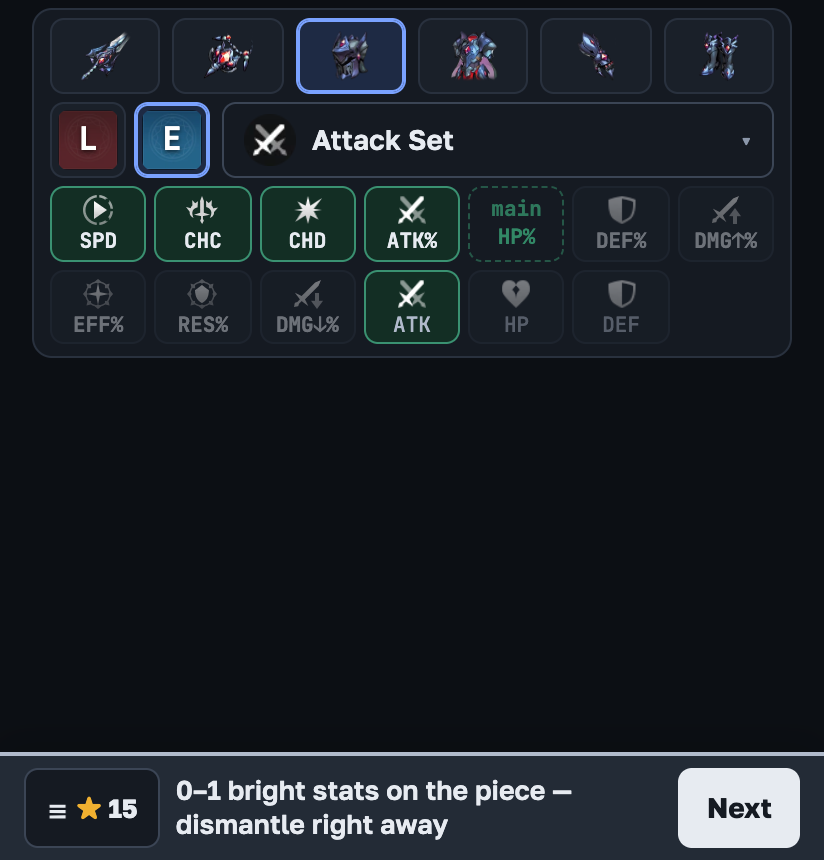
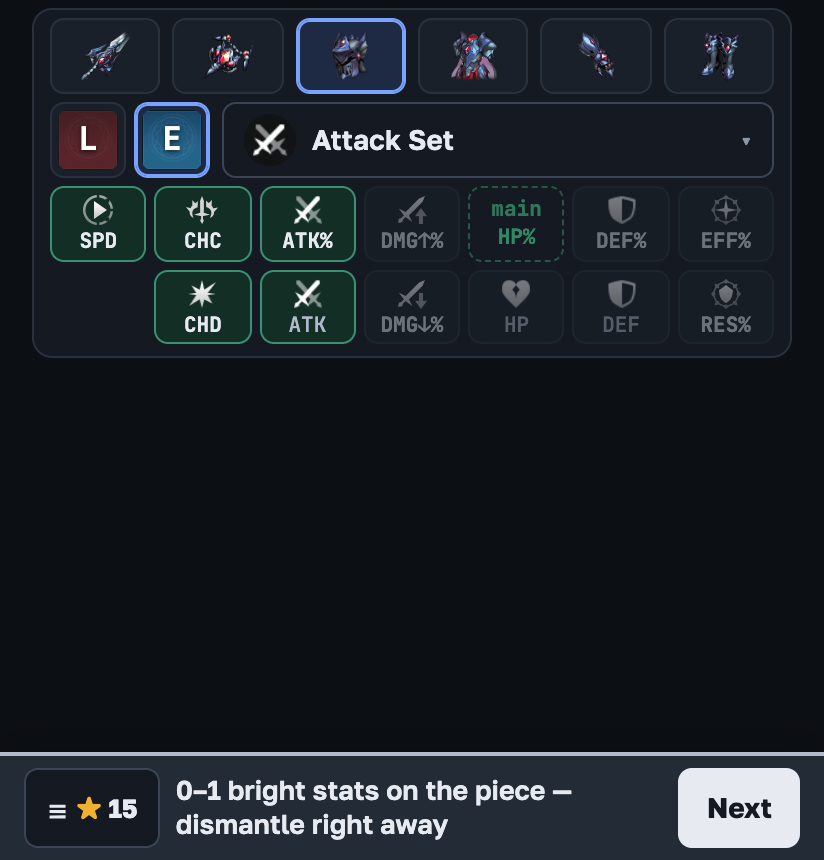
Сетка статов парами по параметру: атака слева, защита справа
Статы, которые меняют один параметр, стоят рядом, один над другим:
CHC над CHD, ATK% над ATK, DMG UP% над DMG RED%, HP% над HP, DEF% над DEF,
EFF% над RES%. SPD — первым, под ним пусто.

- Сетка main аксессуара — на тех же местах: PEN% под ATK%, CDMG RED% рядом
  с DMG RED%. MAIN_GRID теперь выводится из раскладки MAIN_LAYOUT.
- Окно замены сабстата — те же пары по строкам, 4 в ряд. Порядок SUB_LIST
  для логики и текстов не менялся.
- Справка, вики («Начало работы») и скриншоты обновлены.

diff --git a/src/components/eval/StatGrid.tsx b/src/components/eval/StatGrid.tsx
@@ -1,4 +1,4 @@
-import { FLAT, MAIN_GRID, subLabel } from '../../data';
+import { FLAT, MAIN_LAYOUT, subLabel } from '../../data';
 import { useT } from '../../i18n';
 import type { MainOption } from '../../logic/lists';
 import type { Subs } from '../../logic/subs';
@@ -6,8 +6,9 @@ import { StatIcon } from '../Img';
 
 // Сетка сабстатов прямо на форме вместо окна выбора: одно нажатие — стат встаёт в следующую строку с 1 жёлтым,
 // повторное — снимает его.
-// Раскладка 7×2: %-статы над своими flat-версиями (ATK% над ATK, HP% над HP, DEF% над DEF),
-// чтобы «есть ли на предмете %» решалось местом кнопки, а не чтением подписи.
+// Раскладка 7×2 по параметрам: пары стоят одна над другой — CHC над CHD, ATK% над ATK, DMG UP% над DMG RED%,
+// HP% над HP, DEF% над DEF, EFF% над RES%; слева SPD и атака, справа защита. %-статы над своими flat-версиями,
+// чтобы «есть ли на предмете %» решалось местом кнопки, а не чтением подписи. null — пустая клетка.
 // useful — спрос билдов выбранного сета: ярче — нужен, блёклый — не нужен никому.
 // mains — у аксессуара без main: сетка сначала выбирает main (он в игре сверху предмета), потом сабстаты.
 // Flat-статы main не бывают — на их местах PEN% и CDMG RED%, которые бывают только main; остальные на своих местах.
@@ -17,7 +18,11 @@ import { StatIcon } from '../Img';
 // у аксессуара с main EFF клетка EFF% остаётся обычной (main тогда виден в поле main над сеткой).
 // Сабстаты подписаны, как на вещи в игре (subLabel: EFF%, RES%), main — без %: flat RES ботинок сабстатом не бывает,
 // и клетка RES% рядом с ним — другой стат.
-const GRID = ['SPD', 'CHC', 'CHD', 'ATK%', 'HP%', 'DEF%', 'DMG UP%', 'EFF', 'RES', 'DMG RED%', 'ATK', 'HP', 'DEF'];
+const GRID: (string | null)[] = [
+  'SPD', 'CHC', 'ATK%', 'DMG UP%', 'HP%', 'DEF%', 'EFF',
+  null, 'CHD', 'ATK', 'DMG RED%', 'HP', 'DEF', 'RES',
+];
+const gap = (i: number) => <span key={`gap${i}`} className="sg-gap" aria-hidden="true" />;
 // подписи — не длиннее пяти знаков: в разделённом экране клетка ~24 px. CDMG RED% — «CD↓%»: «CDMG↓» обрезалось бы в «DMG↓»
 const SHORT: Record<string, string> = { 'DMG UP%': 'DMG↑%', 'DMG RED%': 'DMG↓%', 'CDMG RED%': 'CD↓%' };
 
@@ -29,7 +34,8 @@ export function StatGrid({ subs, main, blocked, full, useful, mains, onPick, onM
   if (mains) {
     return (
       <div className="statgrid main-mode" role="group" aria-label={t.ui.mainGroup}>
-        {MAIN_GRID.map((k) => {
+        {MAIN_LAYOUT.map((k, i) => {
+          if (k === null) return gap(i);
           const o = mains.find((x) => x.key === k);
           const cls = ['sg', o && (o.want ? 'u1' : 'u0'), o?.rare && 'rare'].filter(Boolean).join(' ');
           return (
@@ -43,7 +49,8 @@ export function StatGrid({ subs, main, blocked, full, useful, mains, onPick, onM
   }
   return (
     <div className="statgrid" role="group" aria-label={t.ui.addSub}>
-      {GRID.map((k) => {
+      {GRID.map((k, i) => {
+        if (k === null) return gap(i);
         if (blocked.has(k) && !(k in subs)) {
           // выбранный main снимается нажатием; фиксированная строка (HP% шлема, flat ATK оружия) — нет
           const chosen = k === main;

diff --git a/src/i18n/ru.ts b/src/i18n/ru.ts
@@ -394,7 +394,7 @@ export const ru = {
       '**Legendary оружие и аксессуар** — найди предмет и отметь main stat. Совсем новый, которого нет в списке, — «нет в списке».',
       '**Epic оружие и аксессуар** (Steel…) — пассивки нет, сразу main stat.',
       '**Main stat** у оружия — кнопки ATK% / DEF% / HP% рядом с грейдом; у аксессуара — первое нажатие в сетке, дальше сетка отмечает сабстаты. Ярче — main, который кому-то нужен. Нажми выбранный ещё раз, чтобы убрать.',
-      '**Сабстаты** — нажми в сетке; ярче — статы, нужные билдам выбранного сета. %-статы стоят над своими flat-версиями. Клетка с пометкой main — такого сабстата на этой вещи не бывает: он уже в main (HP% у шлема и ботинок, flat DEF у брони и перчаток, flat ATK у оружия). Flat EFF и flat RES в main сабстатам EFF% и RES% не мешают — в игре это разные статы. В сетке все 13 сабстатов игры; PEN%, CDMG RED%, flat EFF и flat RES сабстатами не бывают — только main.',
+      '**Сабстаты** — нажми в сетке; ярче — статы, нужные билдам выбранного сета. Статы стоят парами по параметру, один над другим: ATK% над ATK, HP% над HP, DEF% над DEF, CHC над CHD, DMG UP% над DMG RED%, EFF% над RES%. Клетка с пометкой main — такого сабстата на этой вещи не бывает: он уже в main (HP% у шлема и ботинок, flat DEF у брони и перчаток, flat ATK у оружия). Flat EFF и flat RES в main сабстатам EFF% и RES% не мешают — в игре это разные статы. В сетке все 13 сабстатов игры; PEN%, CDMG RED%, flat EFF и flat RES сабстатами не бывают — только main.',
       '**4-й сабстат у Epic** — Epic выпадает с тремя, четвёртый добавляет первый Reforge. Сделал Reforge — отметь его кнопкой «+ 4-й сабстат от Reforge»: он может вытянуть вещь. Какой именно вытянет броню, подскажет «Прокачка».',
       'Нажми на стат в строке, чтобы заменить его (жёлтые сегменты останутся) или убрать. При замене можно выбрать и стат из другой строки: он переедет сюда, а та строка освободится — так удобно вводить следующую вещь поверх прошлой. Убрать можно и повторным нажатием в сетке. Код, справка и настройки — в меню ☰.',
     ],

diff --git a/src/i18n/en.ts b/src/i18n/en.ts
@@ -361,7 +361,7 @@ export const en: Texts = {
       '**Legendary weapon and accessory** — find the item and mark the main stat. Brand new and not listed yet — "not listed".',
       '**Epic weapon and accessory** (Steel…) — no passive, straight to the main stat.',
       '**Main stat** on a weapon — the ATK% / DEF% / HP% buttons next to the grade; on an accessory — the first tap in the grid, after that the grid marks substats. Brighter — a main someone needs. Tap the chosen one again to remove it.',
-      '**Substats** — tap them in the grid; brighter ones are needed by builds with the chosen set. % stats sit above their flat versions. A cell marked main never rolls as a substat on this piece — it is already in the main (HP% on helmets and boots, flat DEF on chest armor and gloves, flat ATK on weapons). A flat EFF or flat RES main doesn\'t block EFF% and RES% substats — in the game they are different stats. The grid has all 13 substats in the game; PEN%, CDMG RED%, flat EFF and flat RES never roll as substats — only as mains.',
+      '**Substats** — tap them in the grid; brighter ones are needed by builds with the chosen set. Stats sit in pairs by parameter, one above the other: ATK% over ATK, HP% over HP, DEF% over DEF, CHC over CHD, DMG UP% over DMG RED%, EFF% over RES%. A cell marked main never rolls as a substat on this piece — it is already in the main (HP% on helmets and boots, flat DEF on chest armor and gloves, flat ATK on weapons). A flat EFF or flat RES main doesn\'t block EFF% and RES% substats — in the game they are different stats. The grid has all 13 substats in the game; PEN%, CDMG RED%, flat EFF and flat RES never roll as substats — only as mains.',
       '**4th substat on an Epic** — Epics drop with three; the first Reforge adds a fourth. Did a Reforge — mark it with "+ 4th substat from Reforge": it can pull the piece up. For armor, "Upgrading" tells which one would.',
       'Tap a stat in its row to replace it (yellow segments stay) or remove it. When replacing, you can also pick a stat from another row: it moves here and that row is freed — handy for entering the next piece over the last one. Tapping it again in the grid removes it too. Code, help and settings are in the ☰ menu.',
     ],

diff --git a/src/components/eval/SubPicker.tsx b/src/components/eval/SubPicker.tsx
@@ -8,6 +8,9 @@ import { StatIcon } from '../Img';
 // При замене можно взять и стат из другой строки: он переедет сюда, а та строка освободится (appState, replaceSub);
 // у такого стата — номер строки, где он стоит сейчас.
 // blocked — сабстаты, которых на предмете не бывает из-за main (см. logic/mains).
+// Раскладка 4 в ряд парами по параметрам, как в сетке на форме: CHC и CHD, ATK% и ATK, DMG UP% и DMG RED%,
+// HP% и HP, DEF% и DEF, EFF% и RES%. null — пустая клетка; сабстат, которого здесь нет, встаёт в конец.
+const LAYOUT: (string | null)[] = ['SPD', null, 'CHC', 'CHD', 'ATK%', 'ATK', 'DMG UP%', 'DMG RED%', 'HP%', 'HP', 'DEF%', 'DEF', 'EFF', 'RES'];
 export function SubPicker({ ctx, subs, blocked, editing, onPick, onRemove }: {
   ctx: Ctx; subs: Subs; blocked: Set<string>; editing: string | null; onPick: (key: string) => void; onRemove?: () => void;
 }) {
@@ -21,7 +24,8 @@ export function SubPicker({ ctx, subs, blocked, editing, onPick, onRemove }: {
   return (
     <>
       <div className="subgrid">
-        {SUB_LIST.map((k) => {
+        {[...LAYOUT.filter((k) => k === null || SUB[k]), ...SUB_LIST.filter((k) => !LAYOUT.includes(k))].map((k, i) => {
+          if (k === null) return <span key={`gap${i}`} aria-hidden="true" />;
           const row = rowOf(k);
           const taken = (blocked.has(k) && k !== editing) || (row > 0 && editing === null);
           const move = row > 0 && editing !== null;

diff --git a/src/data/index.ts b/src/data/index.ts
@@ -36,9 +36,14 @@ export const FLAT = new Set(['ATK', 'DEF', 'HP']);
 // так они лежат в коде предмета и в сохранённых вещах. Main (MainButtons, main в сетке и в цепочке) — без %.
 const SUB_LABEL: Record<string, string> = { EFF: 'EFF%', RES: 'RES%' };
 export const subLabel = (k: string): string => SUB_LABEL[k] ?? k;
-// main аксессуара в сетке (StatGrid): те же места, что у сабстатов, а на местах flat-статов — PEN% и CDMG RED%,
-// которые бывают только main. Новый main в данных без места здесь — красная проверка (scripts/check-data.mjs)
-export const MAIN_GRID = ['SPD', 'CHC', 'CHD', 'ATK%', 'HP%', 'DEF%', 'DMG UP%', 'EFF', 'RES', 'DMG RED%', 'PEN%', 'CDMG RED%'];
+// main аксессуара в сетке (StatGrid), по строкам 7×2; null — пустая клетка. Те же места, что у сабстатов, а на местах
+// flat ATK и flat HP — PEN% (к атаке) и CDMG RED% (рядом с DMG RED%), которые бывают только main.
+// Новый main в данных без места здесь — красная проверка (scripts/check-data.mjs)
+export const MAIN_LAYOUT: (string | null)[] = [
+  'SPD', 'CHC', 'ATK%', 'DMG UP%', 'HP%', 'DEF%', 'EFF',
+  null, 'CHD', 'PEN%', 'DMG RED%', 'CDMG RED%', null, 'RES',
+];
+export const MAIN_GRID = MAIN_LAYOUT.filter((k): k is string => k !== null);
 
 export function createIndex(D: Dataset) {
   const SUB = Object.fromEntries(D.substats.map((s) => [s.key, s]));

diff --git a/src/styles/eval.css b/src/styles/eval.css
@@ -168,7 +168,7 @@ html.narrow .actions .btn.primary { display: none; } /* на телефоне «
 html.narrow body.has-vbar .toast { bottom: calc(80px + env(safe-area-inset-bottom, 0px)); }
 @media (max-height: 560px) { html.narrow body.has-vbar .toast { bottom: calc(62px + env(safe-area-inset-bottom, 0px)); } }
 
-/* сетка сабстатов на форме: 7×2, %-статы над своими flat-версиями; ярче — нужны билдам выбранного сета */
+/* сетка сабстатов на форме: 7×2, пары по параметру одна над другой (%-статы над flat); ярче — нужны билдам выбранного сета */
 .formrow .pick.main { flex: 0 0 auto; max-width: 40%; }
 .subzone { display: grid; min-height: 84px; }
 .statgrid { display: grid; grid-template-columns: repeat(7, minmax(0, 1fr)); gap: 4px; align-content: start; }

diff --git a/wiki/Начало-работы.md b/wiki/Начало-работы.md
@@ -29,8 +29,9 @@ Outerplane Gear Check подсказывает, что оставить, а чт
    - **main stat** у оружия — кнопки ATK% / DEF% / HP% рядом с грейдом; у аксессуара — первое нажатие в сетке: пока
      main не выбран, сетка выбирает его (в игре он сверху вещи), потом — сабстаты. Бледный — такой main никому не нужен;
    - **сабстаты** — нажми их в сетке по порядку, как в игре; жёлтые сегменты — кнопками 1–4 в строке стата.
-     ATK%, HP% и DEF% стоят над своими flat-версиями, чтобы не перепутать. В сетке все 13 сабстатов игры: EFF% и RES%
-     на вещи тоже со знаком %, а flat EFF, flat RES, PEN% и CDMG RED% бывают только main;
+     Статы стоят парами по параметру, один над другим: ATK% над ATK, HP% над HP, DEF% над DEF, CHC над CHD,
+     DMG UP% над DMG RED%, EFF% над RES%; слева SPD и атака, справа защита. В сетке все 13 сабстатов игры: EFF%
+     и RES% на вещи тоже со знаком %, а flat EFF, flat RES, PEN% и CDMG RED% бывают только main;
      клетка с пометкой main — такого сабстата на этой вещи не бывает (HP% у шлема и ботинок).
 4. **Прочитай вердикт** на карточке; «подробнее» — полный разбор, «Прокачка», кому подходит и код вещи.
 5. **«Следующий»** — к следующей вещи: слот, грейд, сет и main остаются, сабстаты очищаются. Нажал по ошибке —

diff --git a/wiki/Getting-started.md b/wiki/Getting-started.md
@@ -30,8 +30,10 @@ When new data comes out, an "Update" banner appears when you open it.
      grid: until the main is chosen, the grid picks it (in the game it's on top of the piece), then the substats. Faded —
      no one needs that main;
    - **substats** — tap them in the grid in order, as in the game; yellow segments — buttons 1–4 in the stat's row.
-     ATK%, HP% and DEF% sit above their flat versions so you don't mix them up. The grid has all 13 substats in the
-     game: EFF% and RES% carry a % on the piece too, while flat EFF, flat RES, PEN% and CDMG RED% only come as mains;
+     Stats sit in pairs by parameter, one above the other: ATK% over ATK, HP% over HP, DEF% over DEF, CHC over CHD,
+     DMG UP% over DMG RED%, EFF% over RES%; SPD and attack on the left, defense on the right. The grid has all 13
+     substats in the game: EFF% and RES% carry a % on the piece too, while flat EFF, flat RES, PEN% and CDMG RED% only
+     come as mains;
      a cell marked main never rolls as a substat on this piece (HP% on helmets and boots).
 4. **Read the verdict** on the card; "details" — the full breakdown, "Upgrading", who it suits and the item code.
 5. **"Next"** — on to the next piece: slot, grade, set and main stay, substats are cleared. Tapped it by mistake —
